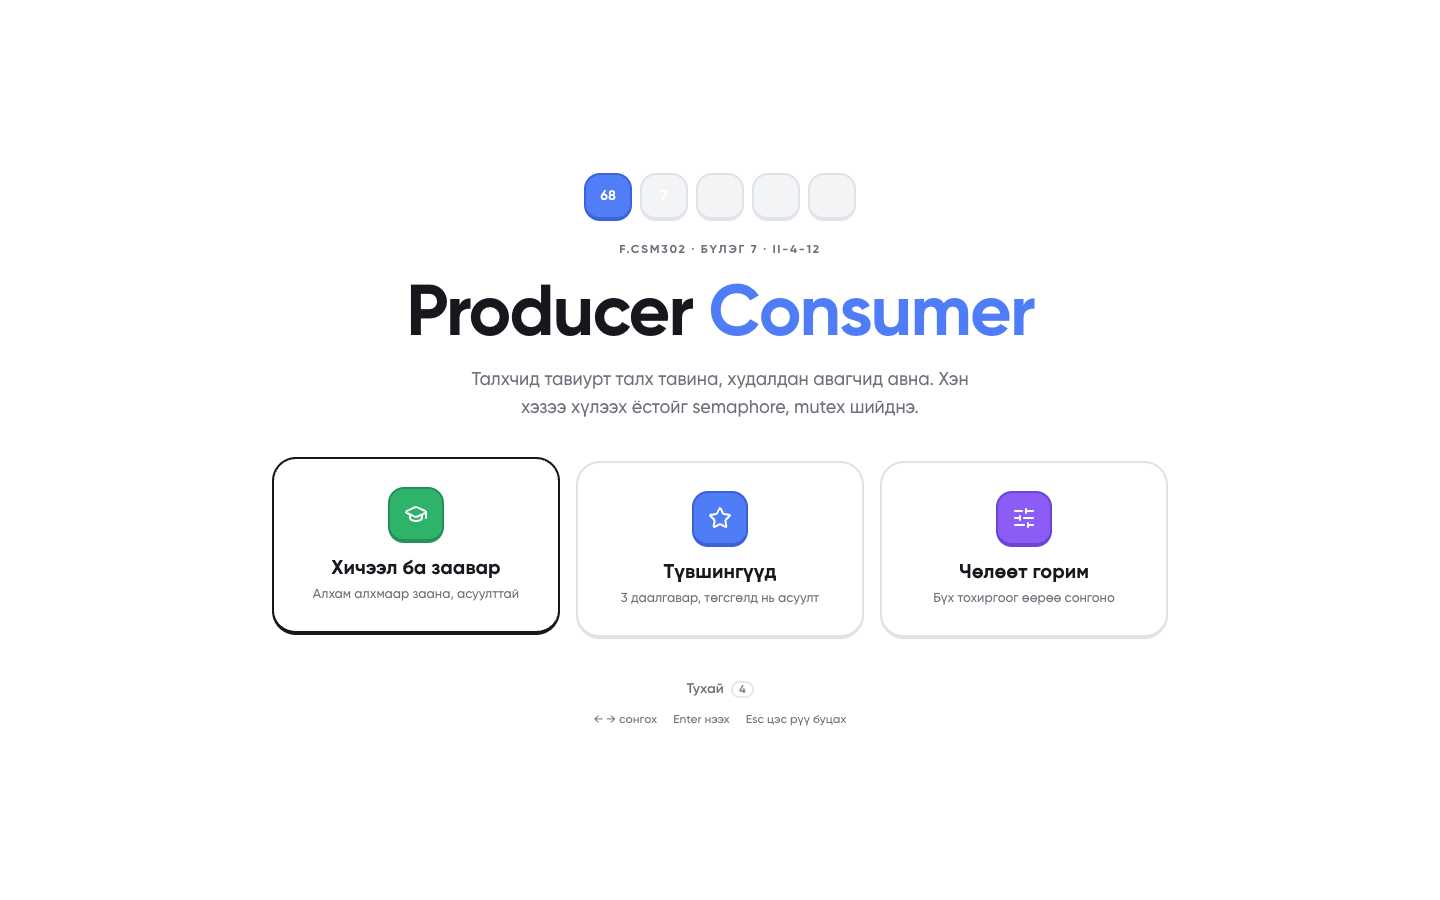
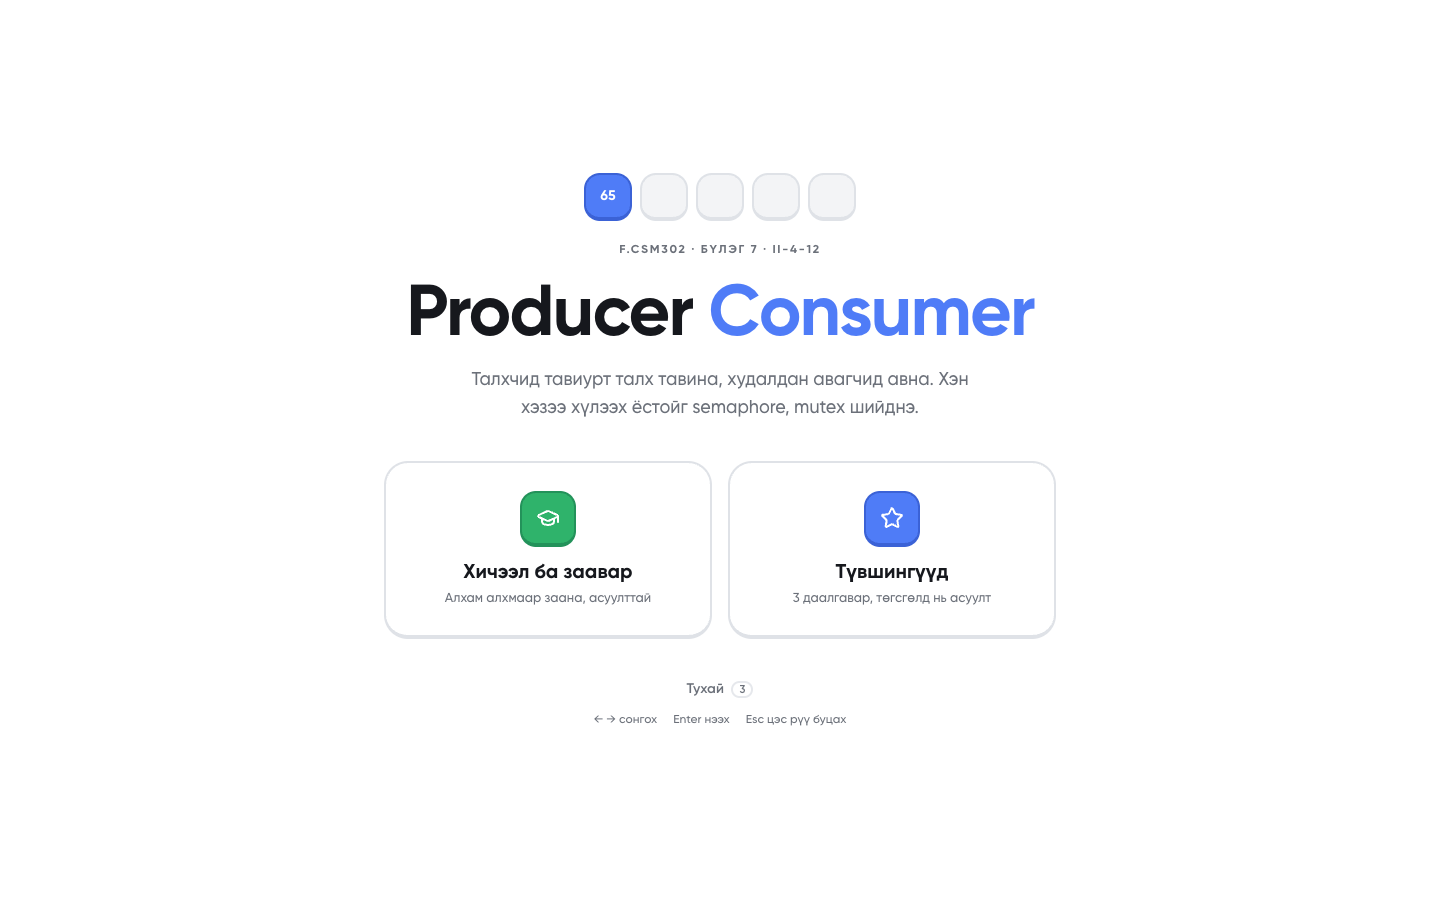
fix: drop free play tile from the menu

Changed region(s): [[0.1875, 0.4978, 0.8125, 0.7156]]

diff --git a/src/components/menu.tsx b/src/components/menu.tsx
@@ -3,7 +3,7 @@
 import { useEffect, useMemo, useRef, useState } from "react"
 import Link from "next/link"
 import { useRouter } from "next/navigation"
-import { GraduationCapIcon, SlidersHorizontalIcon, StarIcon, type LucideIcon } from "lucide-react"
+import { GraduationCapIcon, StarIcon, type LucideIcon } from "lucide-react"
 import { snapAt } from "@/components/buffer-views"
 import type { RunConfig } from "@/lib/config"
 import { buildModel } from "@/lib/model"
@@ -13,7 +13,6 @@ import { cn } from "@/lib/utils"
 const ITEMS: { href: string; title: string; sub: string; icon: LucideIcon; tone: string }[] = [
   { href: "/learn", title: "Хичээл ба заавар", sub: "Алхам алхмаар заана, асуулттай", icon: GraduationCapIcon, tone: "border-now-edge bg-now" },
   { href: "/levels", title: "Түвшингүүд", sub: "3 даалгавар, төгсгөлд нь асуулт", icon: StarIcon, tone: "border-produce-edge bg-produce" },
-  { href: "/play", title: "Чөлөөт горим", sub: "Бүх тохиргоог өөрөө сонгоно", icon: SlidersHorizontalIcon, tone: "border-consume-edge bg-consume" },
 ]
 
 // More producers than consumers so the strip is rarely empty.
@@ -81,8 +80,8 @@ export function Menu() {
       if (e.key === "ArrowRight" || e.key === "ArrowDown") { e.preventDefault(); setSel((s) => (s === null ? 0 : (s + 1) % ITEMS.length)) }
       else if (e.key === "ArrowLeft" || e.key === "ArrowUp") { e.preventDefault(); setSel((s) => ((s ?? 0) + ITEMS.length - 1) % ITEMS.length) }
       else if (e.key === "Enter" && sel !== null && !(e.target as HTMLElement).closest("a, button")) router.push(ITEMS[sel].href)
-      else if (/^[1-3]$/.test(e.key)) router.push(ITEMS[Number(e.key) - 1].href)
-      else if (e.key === "4") router.push("/about")
+      else if (/^[12]$/.test(e.key)) router.push(ITEMS[Number(e.key) - 1].href)
+      else if (e.key === "3") router.push("/about")
     }
     window.addEventListener("keydown", onKey)
     return () => window.removeEventListener("keydown", onKey)
@@ -101,7 +100,7 @@ export function Menu() {
         </p>
       </div>
 
-      <nav className="grid w-full max-w-4xl gap-4 sm:grid-cols-3" aria-label="Үндсэн цэс">
+      <nav className="grid w-full max-w-2xl gap-4 sm:grid-cols-2" aria-label="Үндсэн цэс">
         {ITEMS.map((it, i) => {
           const Icon = it.icon
           return (
@@ -131,7 +130,7 @@ export function Menu() {
 
       <div className="flex flex-col items-center gap-3 text-sm text-muted-foreground">
         <Link href="/about" className="font-semibold underline-offset-4 hover:text-foreground hover:underline focus-visible:ring-[3px] focus-visible:ring-ring/40 focus-visible:outline-none">
-          Тухай <span className="ml-1 rounded-md border-2 px-1.5 text-[11px] max-sm:hidden">4</span>
+          Тухай <span className="ml-1 rounded-md border-2 px-1.5 text-[11px] max-sm:hidden">3</span>
         </Link>
         <p className="flex gap-4 text-xs max-sm:hidden">
           <span>← → сонгох</span><span>Enter нээх</span><span>Esc цэс рүү буцах</span>

diff --git a/docs/Manual.md b/docs/Manual.md
@@ -24,13 +24,13 @@ npm run dev
 Дараа нь браузерт **http://localhost:3000**-ийг нээхэд эхлэлийн цэс гарна. `npm run dev` нь эхлээд C core-ийг (`src/core/pc`) автоматаар build хийнэ.
 
 ### Эхлэлийн цэс
-Нээхэд тоглоомын цэс шиг эхлэлийн дэлгэц гарна (зураг 8): голд гарчиг, доор нь 3 том товч нэг мөрөнд (Хичээл ба заавар, Түвшингүүд, Чөлөөт горим), хамгийн доор Тухай. Гарчгийн дээрх 5 нүд нь жинхэнэ C core-ийн жижиг run бөгөөд тасралтгүй эргэлдэнэ. **← →** (эсвэл ↑ ↓) сонгох, **Enter** нээх, **1–3** горим, **4** Тухай, бусад дэлгэцээс **Esc** дарж цэс рүү буцна.
+Нээхэд тоглоомын цэс шиг эхлэлийн дэлгэц гарна (зураг 8): голд гарчиг, доор нь 2 том товч нэг мөрөнд (Хичээл ба заавар, Түвшингүүд), хамгийн доор Тухай. Гарчгийн дээрх 5 нүд нь жинхэнэ C core-ийн жижиг run бөгөөд тасралтгүй эргэлдэнэ. **← →** (эсвэл ↑ ↓) сонгох, **Enter** нээх, **1–2** горим, **3** Тухай, бусад дэлгэцээс **Esc** дарж цэс рүү буцна.
 
 | Цэс | Хаяг | Юу хийх вэ |
 |---|---|---|
 | **Хичээл ба заавар** | `/learn` | 9 алхамтай хичээл (зураг 9). Бодит run-ийг алхам алхмаар тоглуулж, алхам бүрт тайлбар гаргаж, тухайн хэсгийг цэнхэр хүрээгээр тодруулна (буфер, producer, consumer, semaphore). 3 алхамд асуулт байгаа, зөв хариулсны дараа үргэлжилнэ. |
 | **Түвшингүүд** | `/levels` | 3 даалгавар: Буфер дүүрэх, Буфер хоосрох, Race condition. Тохиргоо нь түгжигдсэн, Start дараад ажигласны дараа run дуусахад асуулт гарна (зураг 10). Зөв хариулсан түвшин "Дууссан" гэж тэмдэглэгдэнэ (тухайн browser-т хадгалагдана). |
-| **Чөлөөт горим** | `/play` | Бүх тохиргоог өөрөө сонгох горим. Доорх оролт, тохиргоо, удирдлагын тайлбар энэ горимд хамаарна. |
+| **Чөлөөт горим** | `/play` | Түвшингүүд хуудасны **Өөрийн туршилт** картаар нээгдэнэ. Бүх тохиргоог өөрөө сонгох горим. Доорх оролт, тохиргоо, удирдлагын тайлбар энэ горимд хамаарна. |
 | **Тухай** | `/about` | Төсөл, баг, C core → Next.js route → browser хэрхэн холбогддог, гол ойлголтууд. |
 
 ![Эхлэлийн цэс](screenshots/web_08_menu.png)
